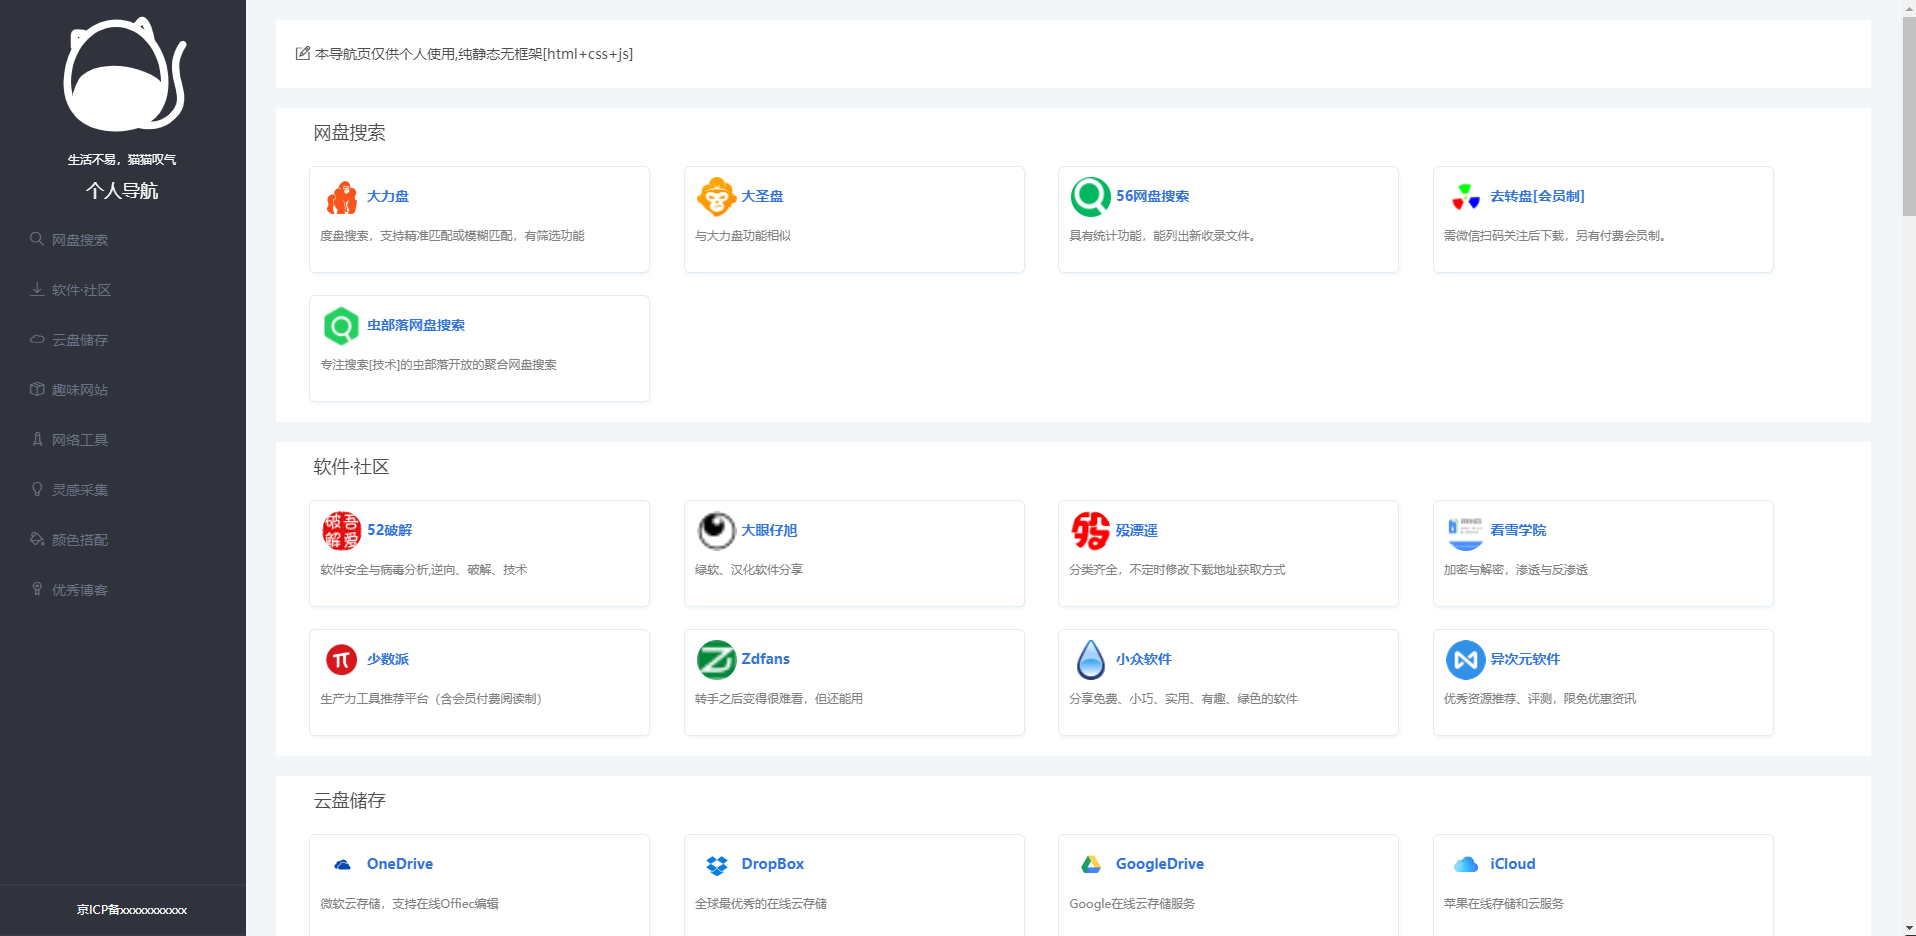
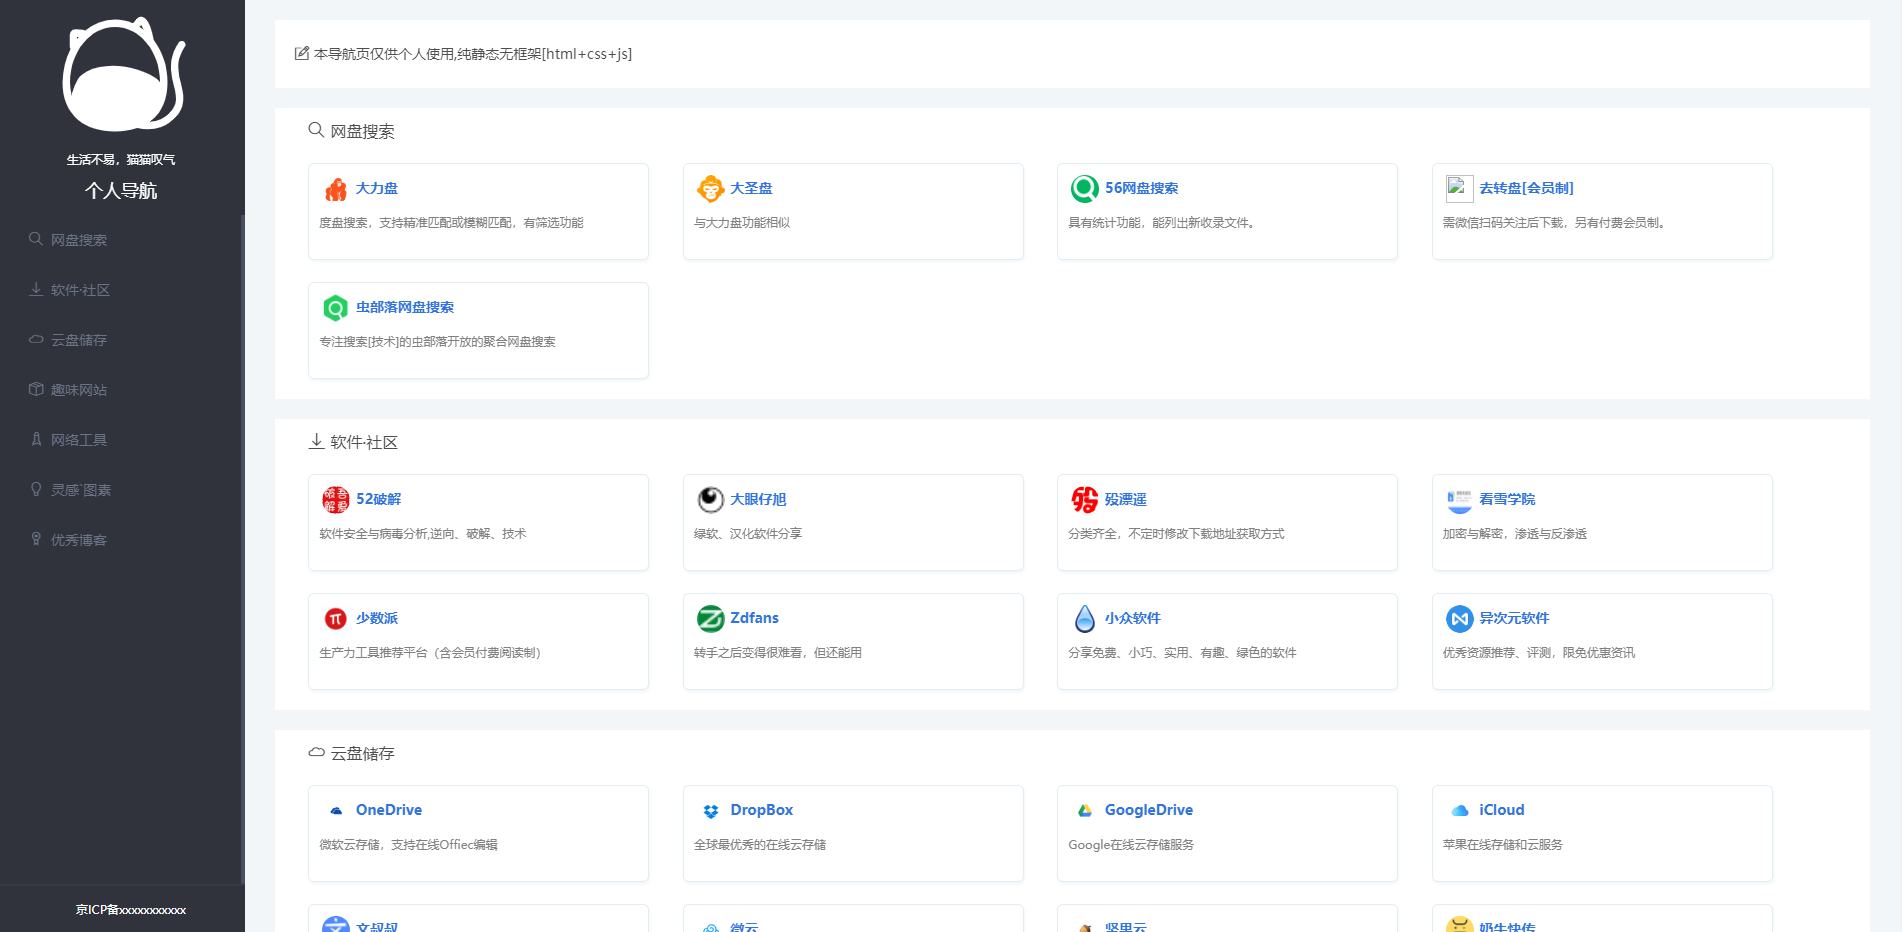
站点修改

diff --git a/static/style.css b/static/style.css
@@ -199,7 +199,10 @@ border:1px solid #fff;
   padding: 12px 0 0 2.1%;
   font-size: 16px;
 }
-.main .box .sub-category > i {
+.main .box .sub-category div i {
+  padding-right: 6px;
+}
+.main .box .sub-category div span {
   padding-right: 6px;
 }
 .main .box .item {

diff --git a/README.md b/README.md
@@ -36,13 +36,15 @@ http(s)://(url)/?p=(自定义json地址)&f=(自定义json分组)
 
 #### 自定义参数地址跨域说明
 如果使用别人搭建或本地调试页面，自定义url与导航页url不在同一个域名下，必须对自定义url开启允许跨域访问；
-阿里云OSS开启跨域访问教程参考地址：
+- 托管在github上的json可以直接获取raw地址进行引用；
+- 阿里云OSS开启跨域访问教程参考地址：
 [https://help.aliyun.com/document_detail/31903.html?spm=a2c4g.11186623.2.15.3724c451vMxt3K#concept-pbw-4df-vdb]
-其中来源 与header必填，不知道怎么填的直接*号，methods允许get与head；
+其中 来源 与 header 必填，不知道怎么填的直接*号，methods允许get与head；
 
 
 TODO：
-- [x] 网址带json地址参数访问（便于放一些不方便展示或杂乱的网页）；
+- [x] 网址带json地址参数访问（便于放一些不方便展示或按需求展示）；
+
 - [ ] json网页可视化编辑页面（便于需要增加页面但不想手动编辑）；
 
 # 其他说明 
